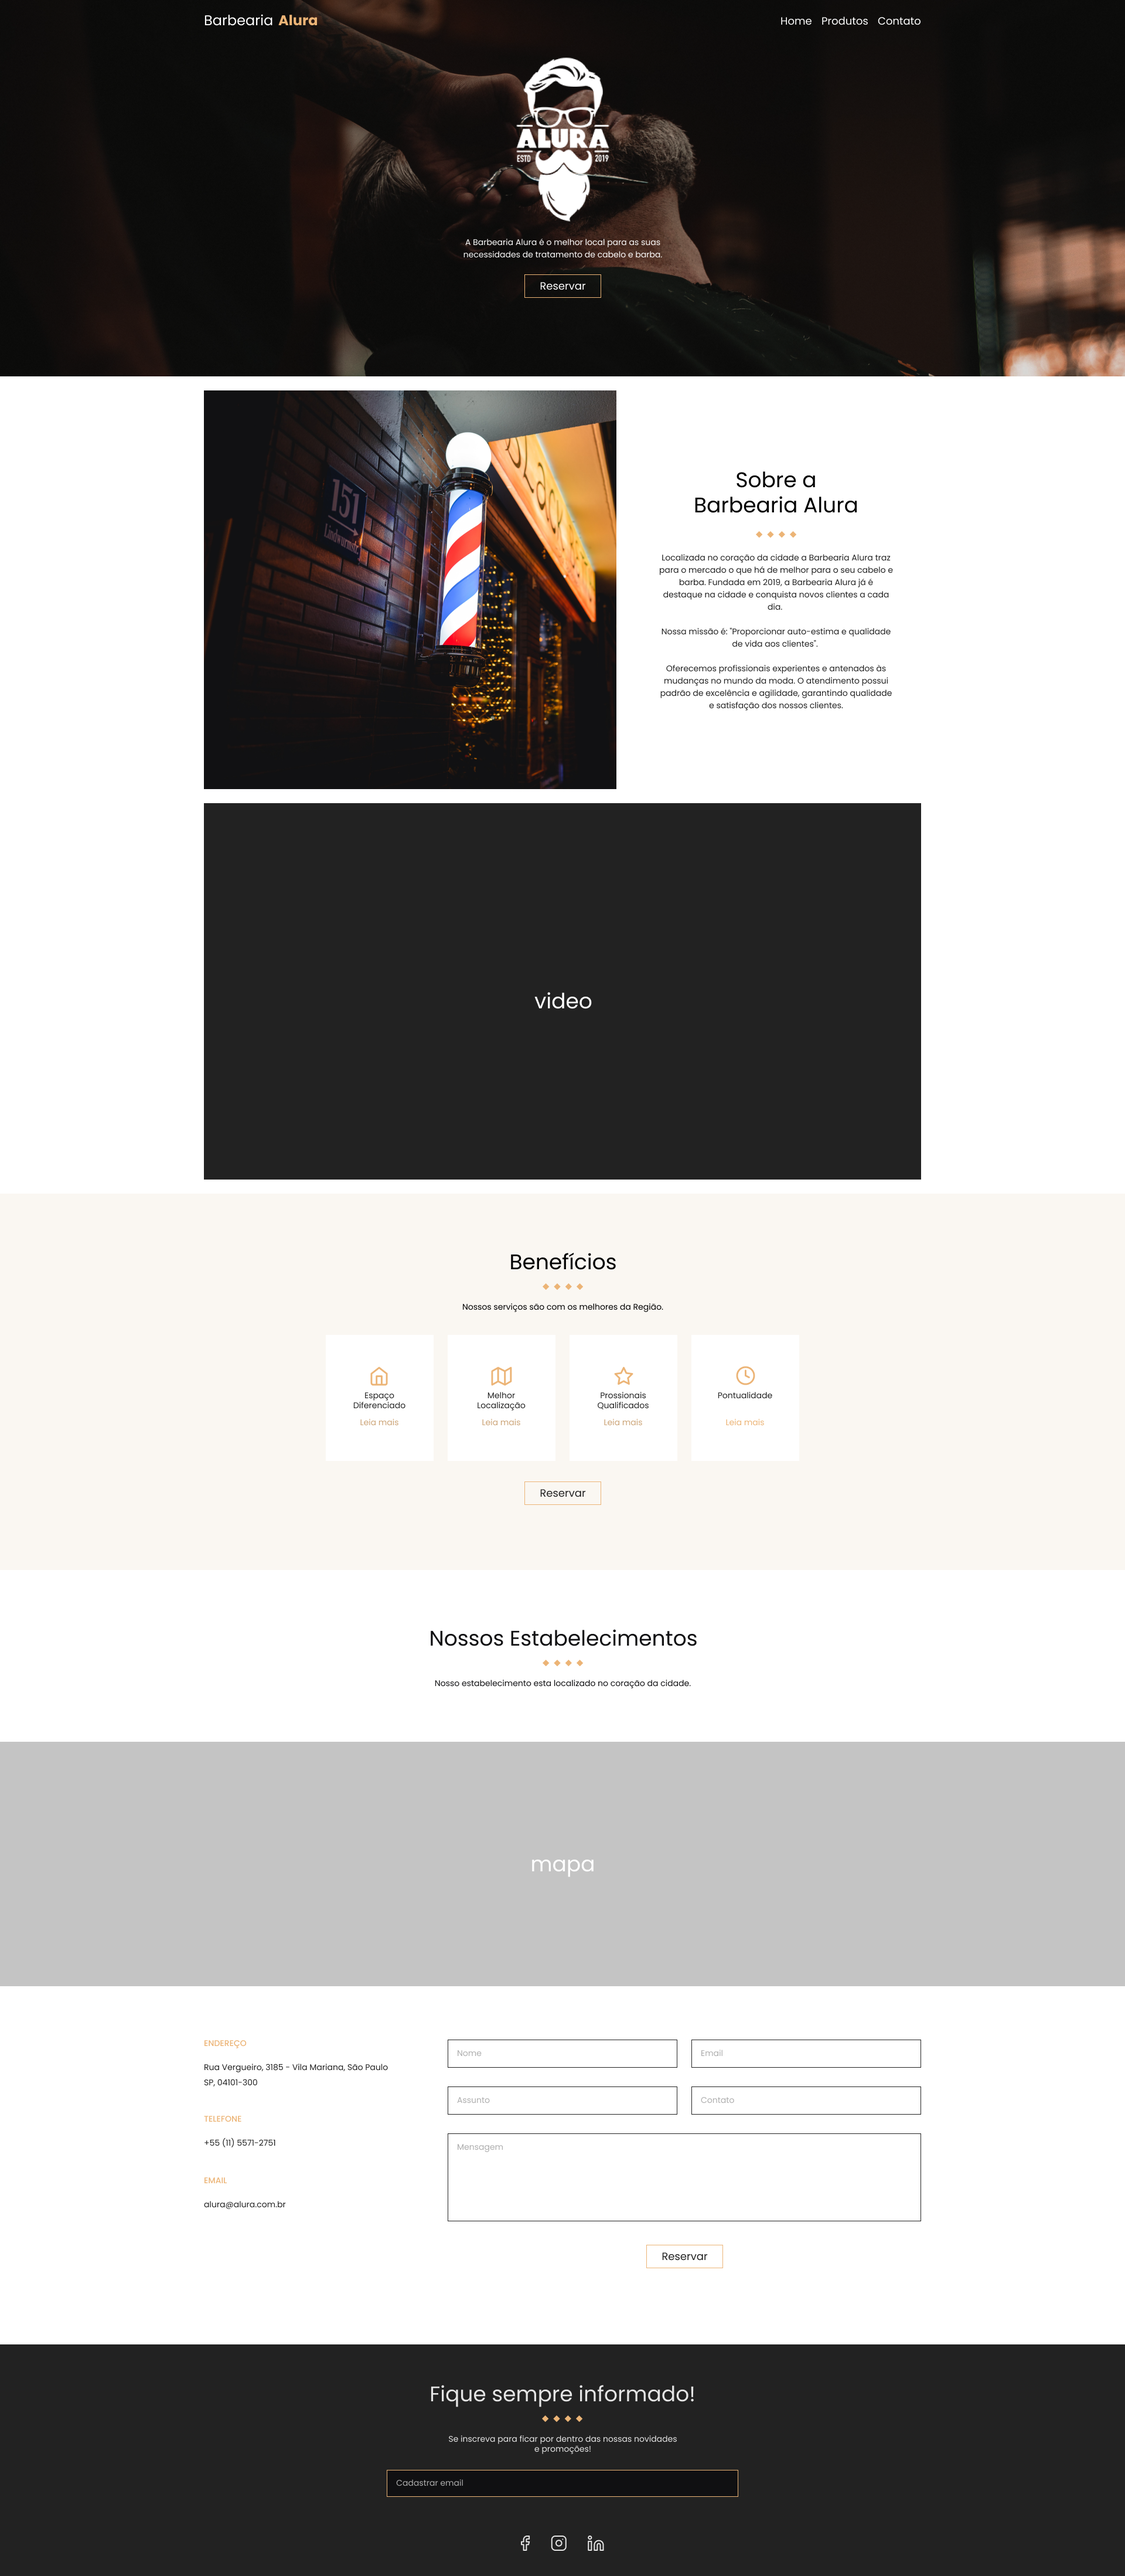
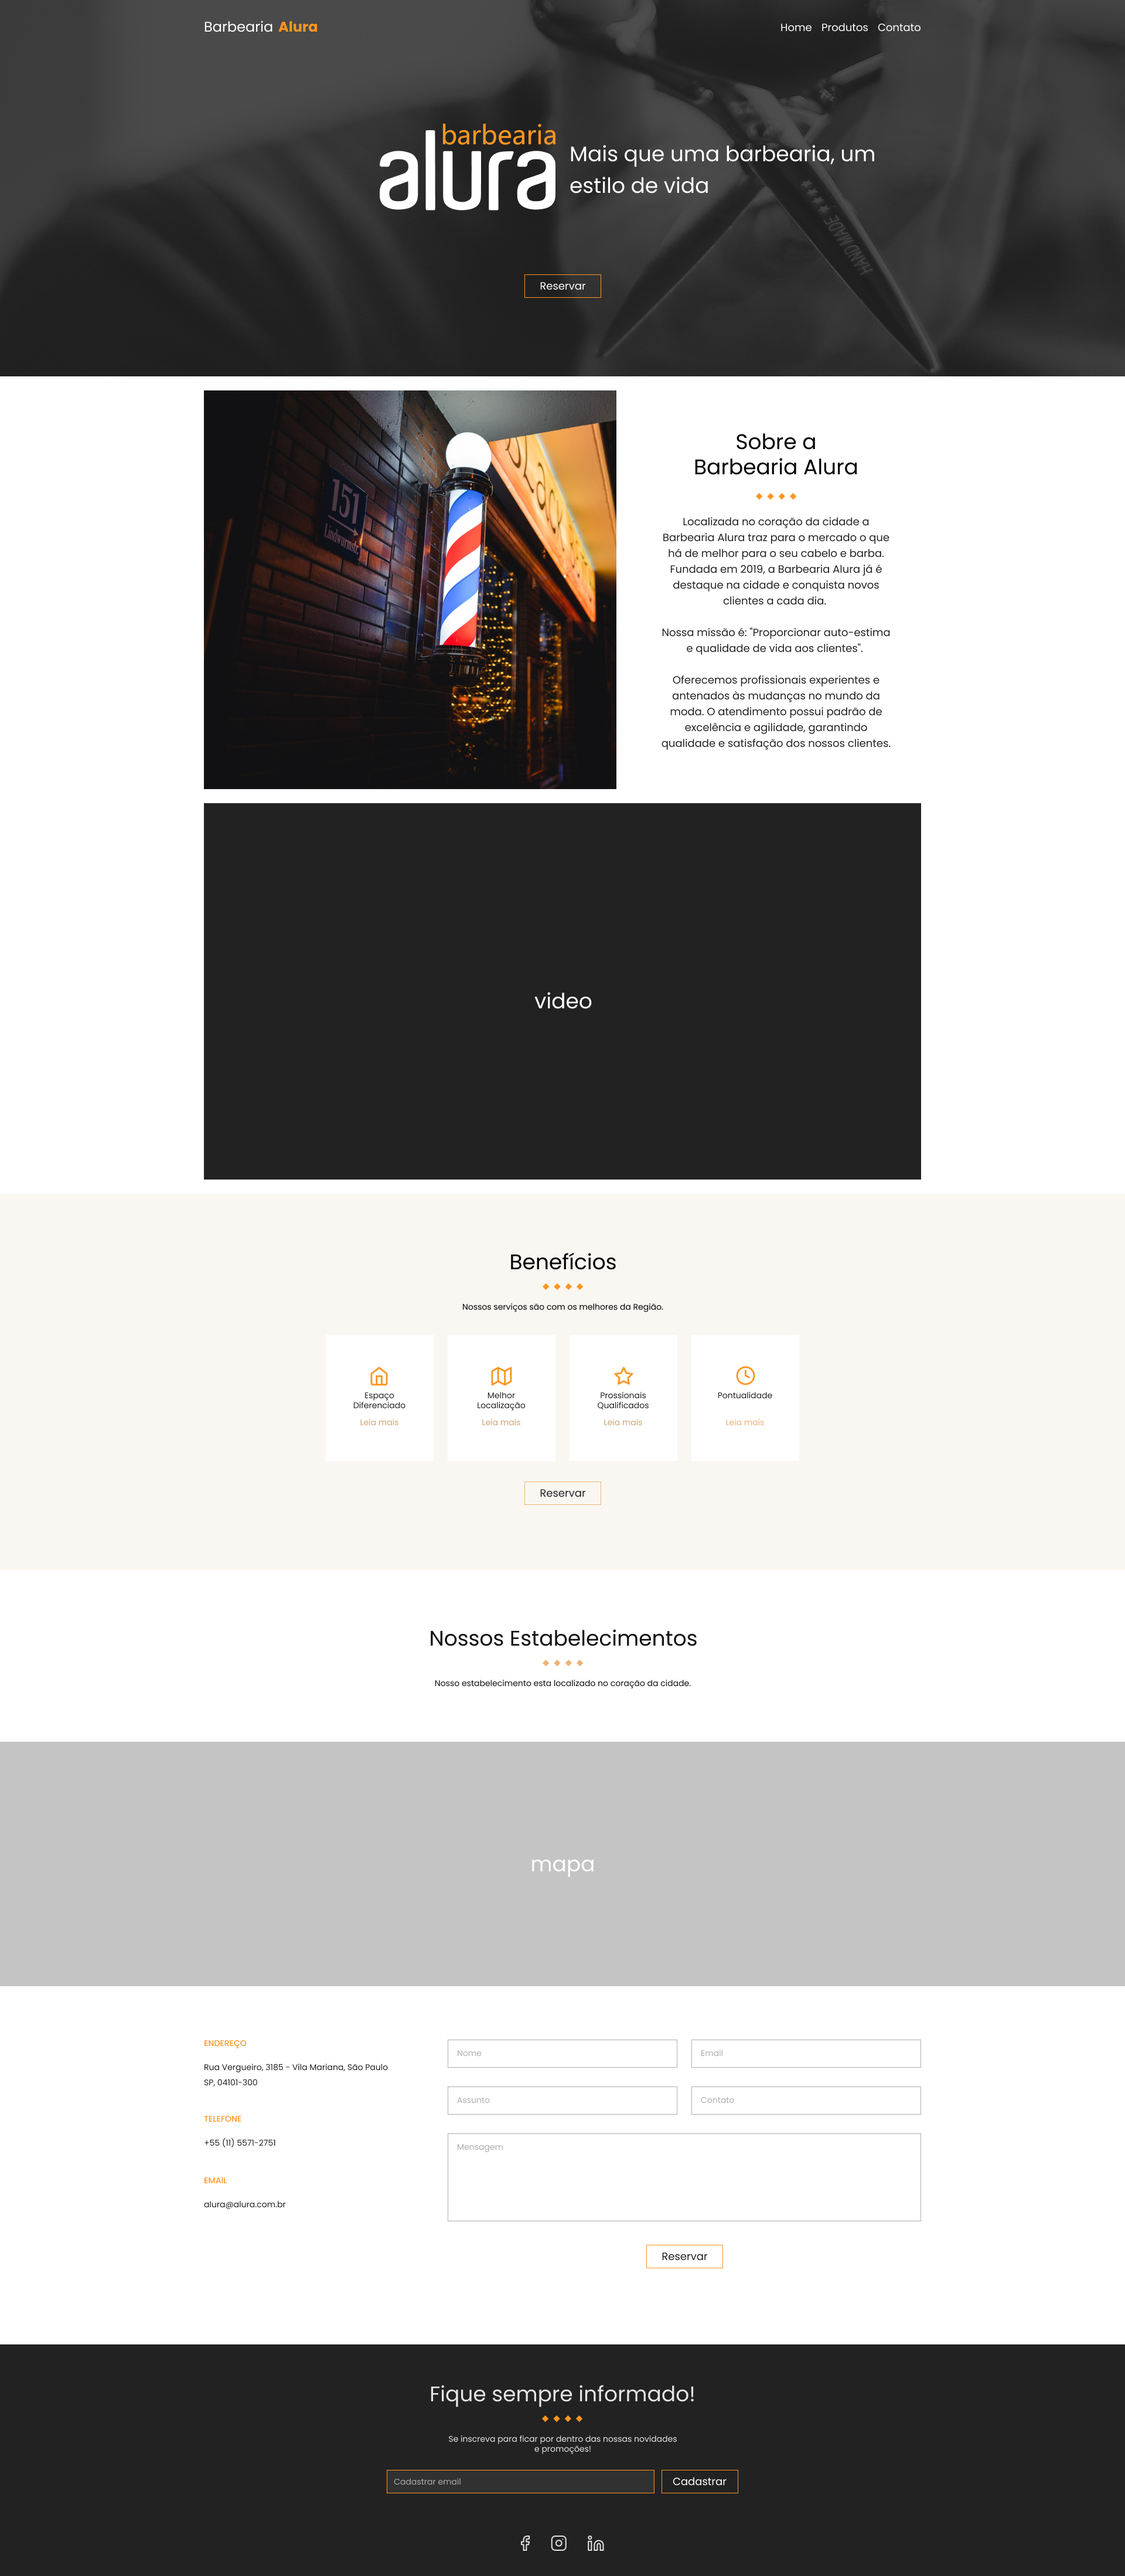
Começando configurar o css
add - cores
add - tipografia
config - menu, container, banner e losango

Changed region(s): [[0.0, 0.0, 1.0, 0.2806], [0.3438, 0.9354, 0.5938, 0.9665]]

diff --git a/index.html b/index.html
@@ -1,29 +1,57 @@
 <!DOCTYPE html>
 <html lang="pt-br">
+
 <head>
     <meta charset="UTF-8">
     <meta http-equiv="X-UA-Compatible" content="IE=edge">
     <meta name="viewport" content="width=device-width, initial-scale=1.0">
     <title>Barbearia Alura</title>
     <link rel="stylesheet" href="css/style.css">
+    <link rel="preconnect" href="https://fonts.googleapis.com">
+    <link rel="preconnect" href="https://fonts.gstatic.com" crossorigin>
+    <link href="https://fonts.googleapis.com/css2?family=Poppins:wght@300;400;500&display=swap" rel="stylesheet">
 </head>
+
 <body>
     <!-- HEADER -->
-    <header>
-        <div class="menu-logo"></div>
-        <div class="menu-right"></div>
+    <header class="container menu">
+        <div class="menu-logo">
+            <h5>Barbearia <strong>Alura</strong></h5>
+        </div>
+        <div class="menu-right">
+            <a href="#" class="link">Home</a>
+            <a href="#" class="link">Produtos</a>
+            <a href="#" class="link">Contato</a>
+        </div>
     </header>
     <!-- MAIN -->
     <main>
-        <section class="sobre">
+        <section class="banner">
+            <div class="container">
+                <div><img src="img/logo.png" alt=""></div>
+                <div>
+                    <h4>Mais que uma barbearia, um estilo de vida.</h4>
+                </div>
+            </div>
+        </section>
+        <section class="container sobre">
             <h3>Sobre a Barbearia Alura</h3>
-            <p>Localizada no coração da cidade a Barbearia Alura traz para o mercado o que há de melhor para o seu cabelo e barba. Fundada em 2019, a Barbearia Alura já é destaque na cidade e conquista novos clientes a cada dia.
+            <div class="losango-horizontal">
+                <div class="losango"></div>
+                <div class="losango"></div>
+                <div class="losango"></div>
+                <div class="losango"></div>
+            </div>
+            <p>Localizada no coração da cidade a Barbearia Alura traz para o mercado o que há de melhor para o seu
+                cabelo e barba. Fundada em 2019, a Barbearia Alura já é destaque na cidade e conquista novos clientes a
+                cada dia.
                 Nossa missão é: "Proporcionar auto-estima e qualidade de vida aos clientes".
-                Oferecemos profissionais experientes e antenados às mudanças no mundo da moda. O atendimento possui padrão de excelência e agilidade, garantindo qualidade e satisfação dos nossos clientes.
+                Oferecemos profissionais experientes e antenados às mudanças no mundo da moda. O atendimento possui
+                padrão de excelência e agilidade, garantindo qualidade e satisfação dos nossos clientes.
             </p>
             <p>Iframe para o vídeo</p>
         </section>
-        <section class="beneficios">
+        <section class="container beneficios">
             <h3>Benefícios</h3>
             <p>Nossos serviços são com os melhores da Região.</p>
             <ul>
@@ -50,7 +78,7 @@
             </ul>
             <button>Reservar</button>
         </section>
-        <section class="informacoes">
+        <section class="container informacoes">
             <h3>Nossos Estabelecimentos</h3>
             <p>Nosso estabelecimento esta localizado no coração da cidade.</p>
             <p>Iframe para o mapa</p>
@@ -77,7 +105,7 @@
         </section>
     </main>
     <!-- FOOTER -->
-    <footer>
+    <footer class="container">
         <h2>Fique sempre informado!</h2>
         <p>Se inscreva para ficar por dentro das nossas novidades e promoções!</p>
         <form action="">
@@ -91,4 +119,5 @@
         </div>
     </footer>
 </body>
+
 </html>

diff --git a/css/style.css b/css/style.css
@@ -1,3 +1,4 @@
+@charset "UTF-8";
 * {
   margin: 0;
   padding: 0;
@@ -5,8 +6,120 @@
           box-sizing: border-box;
 }
 
+h1,
+h2,
+h3,
+h4,
+h5,
+h6,
+p,
+a {
+  font-family: 'Poppins', sans-serif;
+  font-weight: 400;
+}
+
+a {
+  text-decoration: none;
+  color: #F2F2F2;
+}
+
+h1 {
+  font-size: 72px;
+}
+
+h2 {
+  font-size: 56px;
+}
+
+h3 {
+  font-size: 40px;
+}
+
+h4 {
+  font-size: 32px;
+}
+
+h5 {
+  font-size: 24px;
+}
+
+p {
+  font-size: 18px;
+}
+
+strong {
+  font-weight: 500;
+  color: #FF9521;
+}
+
+li {
+  list-style: none;
+}
+
+.link {
+  padding: 8px 24px;
+  -webkit-transition: .5s ease;
+  transition: .5s ease;
+}
+
+.link:hover {
+  color: #E9881B;
+  opacity: 0.8;
+}
+
 body {
   width: 100%;
-  background-color: #d6d6d6;
+  background-color: #FFFFFF;
+}
+
+/* MENU */
+.menu {
+  display: -webkit-box;
+  display: -ms-flexbox;
+  display: flex;
+  -webkit-box-pack: justify;
+      -ms-flex-pack: justify;
+          justify-content: space-between;
+  -webkit-box-align: center;
+      -ms-flex-align: center;
+          align-items: center;
+  padding: 28px 0 28px 0;
+}
+
+.container {
+  border: 1px solid red;
+  max-width: 1224px;
+  margin: 0 auto;
+  padding: 12px;
+}
+
+.banner {
+  background: url("../img/bg_banner.jpg") no-repeat center center;
+  background-color: #333333;
+  height: 642px;
+  color: #F2F2F2;
+  /*     display: flex;
+    align-items: center;
+    justify-content: space-around; */
+}
+
+.losango {
+  display: -webkit-box;
+  display: -ms-flexbox;
+  display: flex;
+  width: 8px;
+  height: 8px;
+  background: #ccc;
+  margin-top: 8px;
+  margin-left: 8px;
+  /* Rotação */
+  -webkit-transform: rotate(-45deg);
+          transform: rotate(-45deg);
+}
+
+.losango-horizontal {
+  display: -webkit-box;
+  display: -ms-flexbox;
+  display: flex;
 }
 /*# sourceMappingURL=style.css.map */

diff --git a/css/sass/_layout.scss b/css/sass/_layout.scss
@@ -1,0 +1,46 @@
+/* MENU */
+.menu {
+    display: flex;
+    justify-content: space-between;
+    align-items: center;
+    padding: 28px 0 28px 0;
+}
+
+
+
+// CONTAINER
+
+.container {
+    border: 1px solid red;
+    max-width: 1224px;
+    margin: 0 auto;
+    padding: 12px;
+}
+
+ // BANNER
+ .banner {
+
+    background: url("../img/bg_banner.jpg") no-repeat center center;
+    background-color: $black-ligh;
+    height: 642px;
+    color: $white-normal;
+/*     display: flex;
+    align-items: center;
+    justify-content: space-around; */
+}
+
+// LOSANGO
+.losango {
+    display: flex;
+    width: 8px;
+    height: 8px;
+    background: #ccc;
+    margin-top: 8px;
+    margin-left: 8px;
+    /* Rotação */
+    transform: rotate(-45deg);
+}
+
+.losango-horizontal {
+    display: flex;
+}

diff --git a/css/sass/_typography.scss b/css/sass/_typography.scss
@@ -1,0 +1,59 @@
+h1,
+h2,
+h3,
+h4,
+h5,
+h6,
+p,
+a {
+    font-family: 'Poppins', sans-serif;
+    font-weight: 400;
+}
+
+a {
+    text-decoration: none;
+    color: $white-normal;
+}
+
+h1 {
+    font-size: 72px;
+}
+
+h2 {
+    font-size: 56px;
+}
+
+h3 {
+    font-size: 40px;
+}
+
+h4 {
+    font-size: 32px;
+}
+
+h5 {
+    font-size: 24px;
+}
+
+p {
+    font-size: 18px;
+}
+
+strong{
+    font-weight: 500;
+    color: $orange-normal;
+}
+
+li {
+    list-style: none;
+}
+
+.link {
+    padding: 8px 24px;
+    transition: .5s ease;
+
+    &:hover {
+        color: $orange-dark;
+        opacity: 0.8;
+    }
+}

diff --git a/css/style.scss b/css/style.scss
@@ -1,10 +1,16 @@
- *{
+ * {
      margin: 0;
      padding: 0;
      box-sizing: border-box;
  }
 
+ @import 'sass/colors';
+ @import 'sass/typography';
+
  body {
      width: 100%;
-     background-color: rgb(214, 214, 214);
- } 
+     background-color: $white-ligh;
+ }
+
+ @import 'sass/spacing';
+ @import 'sass/layout';

diff --git a/css/sass/_colors.scss b/css/sass/_colors.scss
@@ -1,0 +1,11 @@
+$orange-dark: #E9881B;
+$orange-normal: #FF9521;
+$orange-ligh: #FFAE4C;
+
+$black-dark: #191919;
+$black-normal: #222222;
+$black-ligh: #333333;
+
+$white-dark: #E6E6E6;
+$white-normal: #F2F2F2;
+$white-ligh: #FFFFFF;
